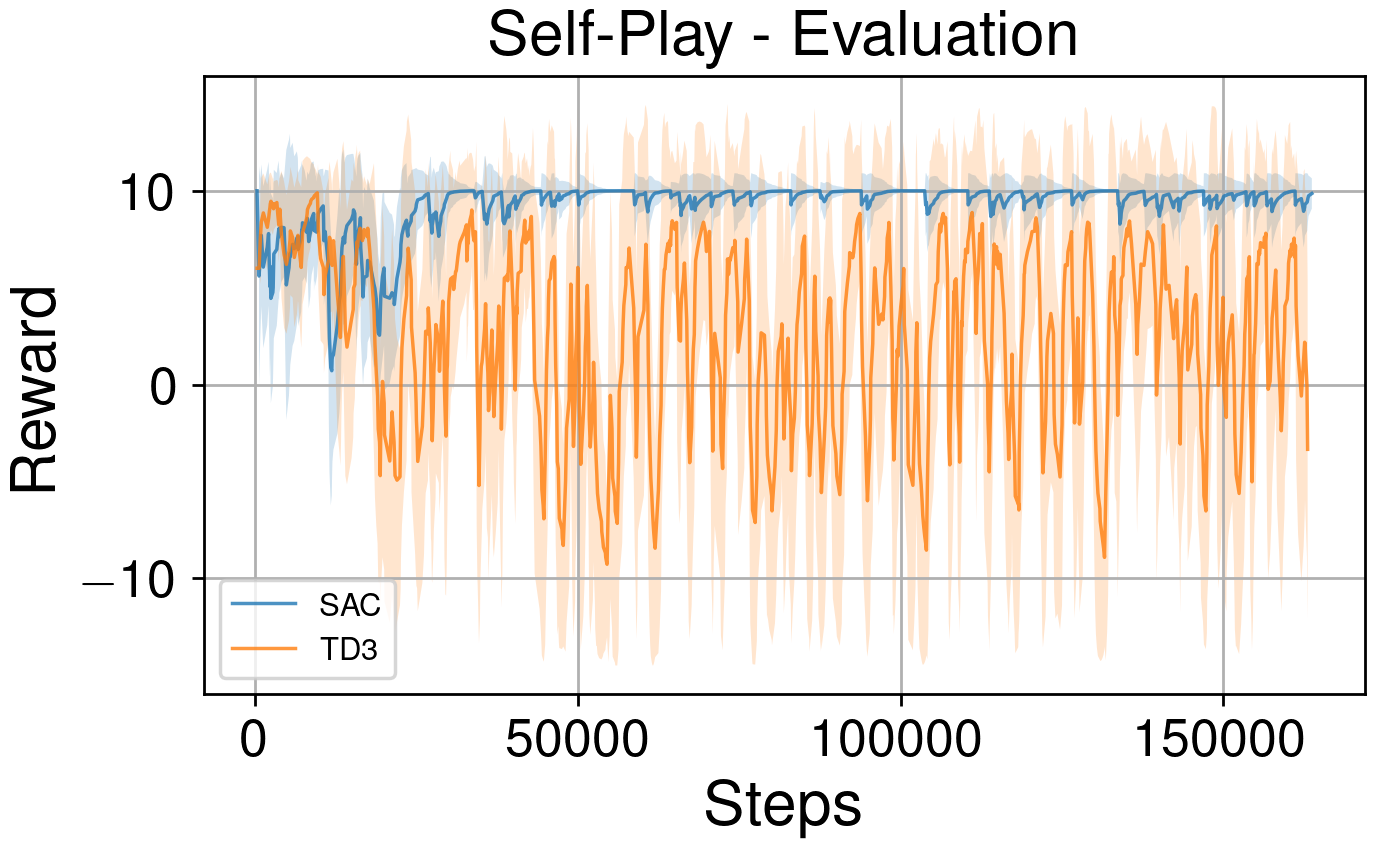
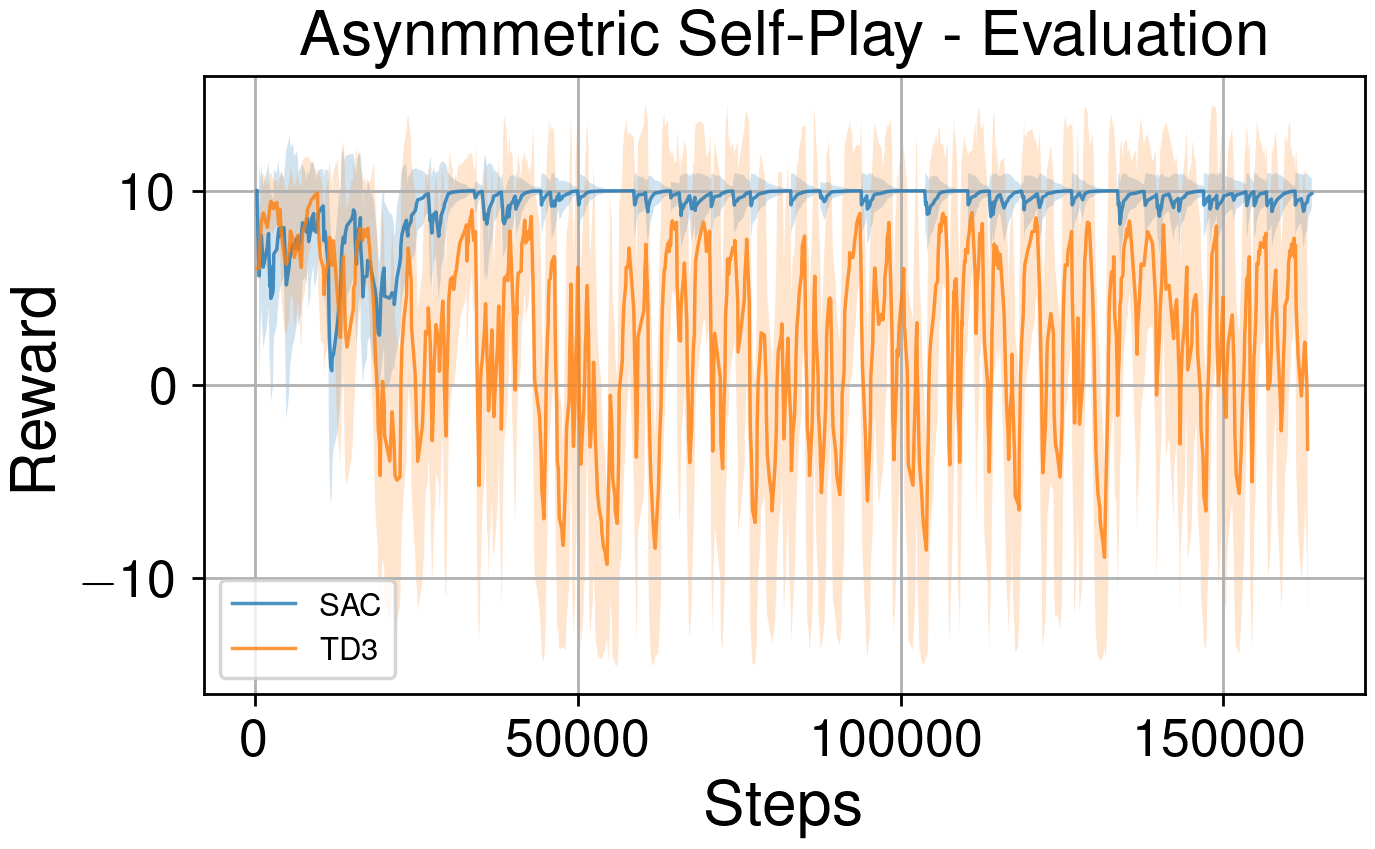
updated report (hybrid & framework)

Changed region(s): [[0.2138, 0.0, 0.9469, 0.0919]]

diff --git a/report/hybrid_model.tex b/report/hybrid_model.tex
@@ -12,48 +12,43 @@ This gate estimates the value of choosing a speciffic sub-agent, given a state:
     a = \pi_{i^*(s)}(s)
 \end{gather}
 
-
-
 \begin{figure}[ht]
     \centering
-    \begin{tikzpicture}[node distance=2cm, auto,>=latex']
-        % Define custom colors
-        \definecolor{statecolor}{RGB}{173,216,230}    % Light Blue
-        \definecolor{diamondcolor}{RGB}{255,182,193}    % Light Pink
-        \definecolor{saccolor}{RGB}{255,255,224}          % Light Yellow
-        \definecolor{td3color}{RGB}{224,255,255}          % Light Cyan
-        \definecolor{actioncolor}{RGB}{255,228,181}       % Moccasin
+    \begin{tikzpicture}[auto,>=latex']
+      % Definieren der benutzerdefinierten Farben
+      \definecolor{statecolor}{RGB}{173,216,230}    % Light Blue
+      \definecolor{diamondcolor}{RGB}{255,182,193}    % Light Pink
+      \definecolor{saccolor}{RGB}{255,255,224}          % Light Yellow
+      \definecolor{td3color}{RGB}{224,255,255}          % Light Cyan
+      \definecolor{actioncolor}{RGB}{255,228,181}       % Moccasin
 
-        % Input: State s
-        \node [draw, rectangle, fill=statecolor, minimum width=2.5cm, minimum height=1cm, rounded corners] (state) {State $s$};
+      % Positionierung der Knoten
+      % Zustand s
+      \node [draw, rectangle, fill=statecolor, minimum width=2cm, minimum height=1cm, rounded corners] (state) at (0,0) {State $s$};
 
-        % Decision: argmax (diamond) directly below state
-        \node [draw, diamond, fill=diamondcolor, below of=state, node distance=3cm, aspect=2, inner sep=1pt] (argmax)
-            {$\arg\max\limits_{i \in \text{Sub-Agents}} Q(i,s)$};
+      % Entscheidungs-Diamond: argmax mit erhöhter Größe für längeren Text
+      \node [draw, diamond, fill=diamondcolor, aspect=3, inner sep=2pt, minimum width=3cm] (argmax) at (4.5,0)
+        {$\arg\max\limits_{i \in \text{Sub-Agents}} Q(i,s)$};
 
-        % Sub-Agents
-        \node [draw, rectangle, fill=saccolor, below left of=argmax, node distance=3.5cm, minimum width=2.8cm, minimum height=1cm, rounded corners] (sac)
-            {\shortstack{SAC Agent \\ $\pi_{\text{SAC}}(s)$}};
+      % Sub-Agents, horizontal angeordnet: SAC oben, TD3 unten
+      \node [draw, rectangle, fill=saccolor, minimum width=3.5cm, minimum height=1cm, rounded corners] (sac) at (8,1.5)
+        {\shortstack{SAC Agent \\ $\pi_{\text{SAC}}(s)$}};
+      \node [draw, rectangle, fill=td3color, minimum width=3.5cm, minimum height=1cm, rounded corners] (td3) at (8,-1.5)
+        {\shortstack{TD3 Agent \\ $\pi_{\text{TD3}}(s)$}};
 
-        \node [draw, rectangle, fill=td3color, below right of=argmax, node distance=3.5cm, minimum width=2.8cm, minimum height=1cm, rounded corners] (td3)
-            {\shortstack{TD3 Agent \\ $\pi_{\text{TD3}}(s)$}};
+      % Ausgabe: Action a
+      \node [draw, rectangle, fill=actioncolor, minimum width=3.5cm, minimum height=1cm, rounded corners] (action) at (12,0)
+        {Action $a$};
 
-
-
-        % Output: Action a
-        \node [draw, rectangle, fill=actioncolor, below of=argmax, node distance=6cm, minimum width=3cm, minimum height=1cm, rounded corners] (action)
-            {Action $a$};
-
-        % Arrows
-        \draw[->, thick] (state) -- (argmax);
-        \draw[->, thick] (argmax) -- node [left] {$i^*(s)=\text{SAC}$} (sac);
-        \draw[->, thick] (argmax) -- node [right] {$i^*(s)=\text{TD3}$} (td3);
-        \draw[->, thick] (sac) -- (action);
-        \draw[->, thick] (td3) -- (action);
+      % Pfeile
+      \draw[->, thick] (state) -- (argmax);
+      \draw[->, thick] (argmax) -- node [above left] {$i^*(s)=\text{SAC}$} (sac);
+      \draw[->, thick] (argmax) -- node [below left] {$i^*(s)=\text{TD3}$} (td3);
+      \draw[->, thick] (sac) -- (action);
+      \draw[->, thick] (td3) -- (action);
     \end{tikzpicture}
-    \caption{Hybrid Model with DDQN-based Agent Selection and \ac{SAC} and \ac{TD3} Sub-Agents}
+    \caption{Hybrides Modell mit DDQN-basierter Agentenauswahl und \ac{SAC} sowie \ac{TD3} Sub-Agents}
   \end{figure}
-
 
 
 The loss function for training the \ac{DDQN} is based on the \ac{TD}-Error,

diff --git a/report/framework.tex b/report/framework.tex
@@ -2,7 +2,7 @@
 We implemented a PyTorch-based framework that abstracts agents and environments, ensuring they are interchangeable and easily configurable for training.
 In a configuration file, the environment\footnote{Our framework supports the OpenAI Gymnasium environment and the Hockey environment.}, the agent type, its training parameters, hyperparameters, and opponents can be specified.
 
-The framework also enables self-play of the agents, where the trained agent is periodically replaced by one of its opponents at a specified frequency. The rule-based agents of the hockey environment can also be used as opponents but are not considered as training candidates.
+The framework also enables (asynmmetric) self-play of the agents, where the trained agent is periodically replaced by one of its opponents at a specified frequency. The rule-based agents of the hockey environment can also be used as opponents but are not considered as training candidates.
 
 
 % A major challenge in reinforcement learning is the formulation of a appropriate reward function for training. Thus the reward for scoring a goal in the hockey environment is sparse, other reward signals have to be considered to enable fast convergence and good exploration.

diff --git a/report/plots/selfplay_plots.py b/report/plots/selfplay_plots.py
@@ -70,7 +70,7 @@ td3_selfplay_train_data = pd.read_csv(
 plot_all_data(
     sac_selfplay_train_data,
     td3_selfplay_train_data,
-    "Self-Play - Training",
+    "Asynmmetric Self-Play - Training",
     "Steps",
     "Reward",
     "selfplay_rewards_train",
@@ -80,7 +80,7 @@ plot_all_data(
 plot_all_data(
     sac_selfplay_eval_data,
     td3_selfplay_eval_data,
-    "Self-Play - Evaluation",
+    "Asynmmetric Self-Play - Evaluation",
     "Steps",
     "Reward",
     "selfplay_rewards_eval",
